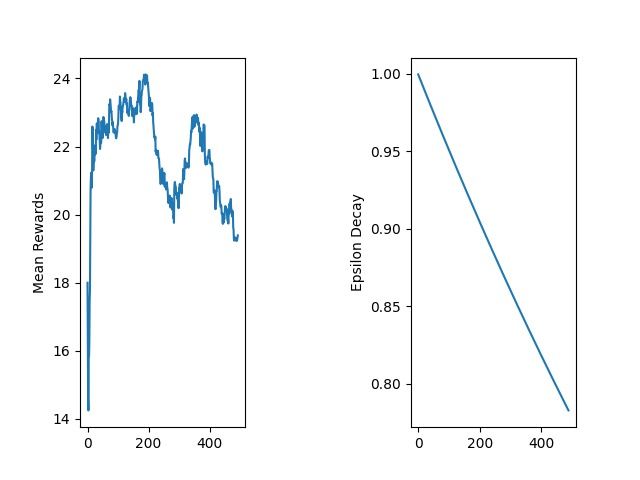
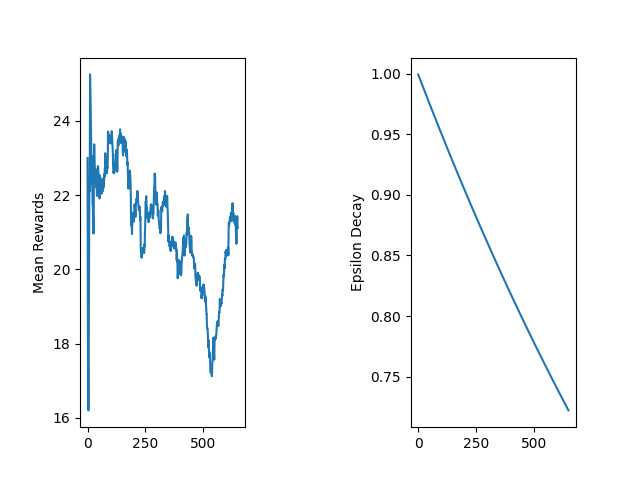
last runs logs

diff --git a/agent.py b/agent.py
@@ -65,7 +65,7 @@ class Agent:
     self.MODEL_FILE = os.path.join(RUNS_DIR, f'{self.hyperparameter_set}.pt')
     self.GRAPH_FILE = os.path.join(RUNS_DIR, f'{self.hyperparameter_set}.png')
 
-  def run(self, is_training = True, render=False):
+  def run(self, is_training = True, render=False, continue_last_model = True):
     
     if is_training:
       start_time = datetime.now()
@@ -88,6 +88,8 @@ class Agent:
 
     # create policy and target network, Number of nodes can be adjusted
     policy_dqn = DQN(num_states, num_actions, self.fc1_nodes).to(device)
+    if continue_last_model:
+      policy_dqn.load_state_dict(torch.load(self.MODEL_FILE))
 
     # during training we have to know what each action made
     if is_training:
@@ -186,13 +188,14 @@ class Agent:
             torch.save(policy_dqn.state_dict(), self.MODEL_FILE)
             best_reward = episode_reward
 
-        # update graph every x second
+        #region graph update
+          # update graph every x second
         current_time = datetime.now()
 
-        if current_time - last_graph_update_time > timedelta(seconds=10):
+        if current_time - last_graph_update_time > timedelta(seconds=50):
           self.save_graph(rewards_per_episode, epsilon_history)
           last_graph_update_time = current_time
-
+        #end region 
 
         # if we have enough experience has been collected
         if len(memory) > self.mini_batch_size:
@@ -226,9 +229,10 @@ class Agent:
     
     with torch.no_grad():
       if self.enable_double_dqn:
-        best_action_from_policy = policy_dqn(states).argmax(dim=1)
+        best_action_from_policy = policy_dqn(new_states).argmax(dim=1)
 
-        target_q = rewards + (1-terminations) * self.discount_factor_g * target_dqn(new_states).max(dim=1).gather(dim=1, index=best_action_from_policy(dim=1)).squeeze()
+        target_q = rewards + (1-terminations) * self.discount_factor_g * \
+          target_dqn(new_states).gather(dim=1, index=best_action_from_policy.unsqueeze(dim=1)).squeeze()
       else:
         target_q = rewards + (1-terminations) * self.discount_factor_g * target_dqn(new_states).max(dim=1)[0]
         '''
